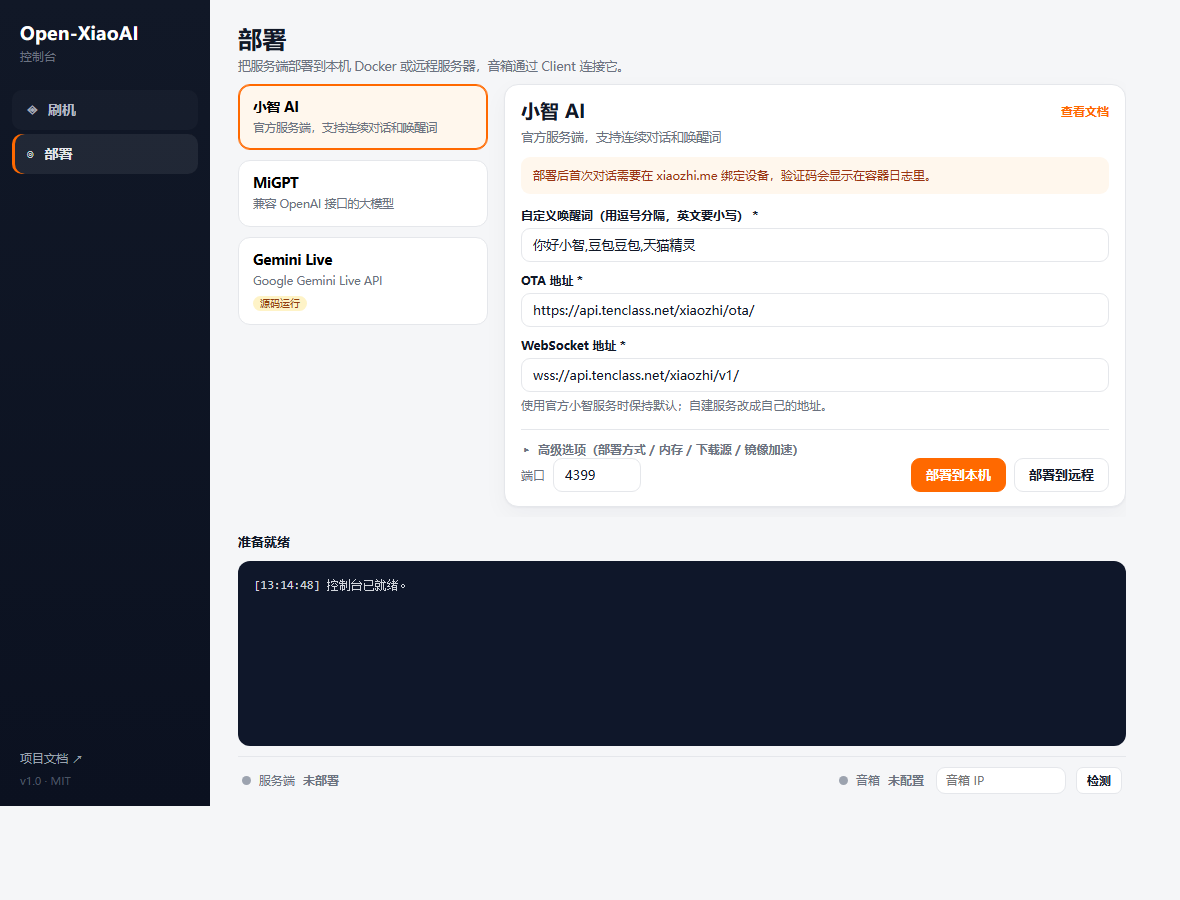
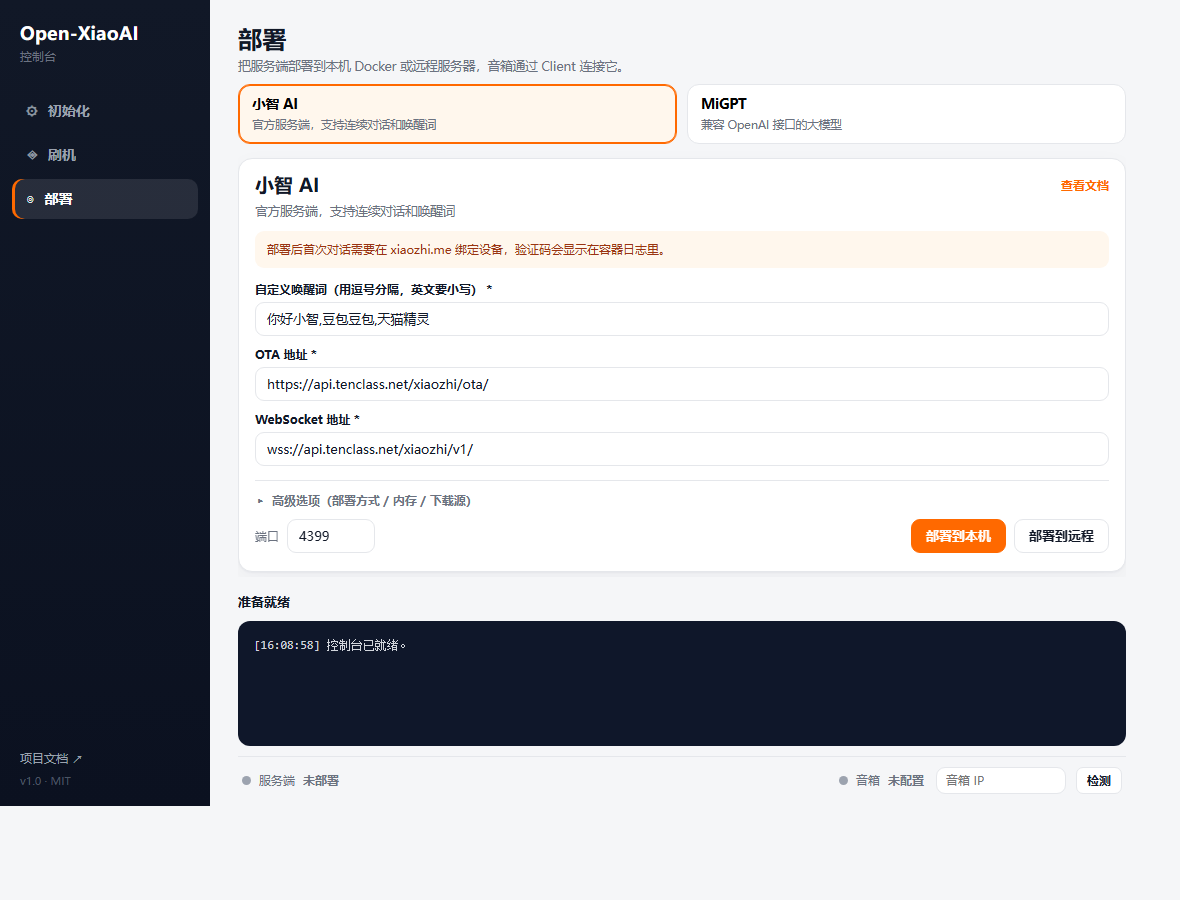
docs: 更新控制台截图并修正固件提示
- 按当前实际界面重新生成刷机页、部署页截图
- 修正固件提示：下载补丁固件或下载官方固件后再制作
- 收紧日志区和部署卡片间距，保证页面内容完整显示

diff --git a/packages/flash-gui-py/web/style.css b/packages/flash-gui-py/web/style.css
@@ -234,7 +234,7 @@ button { font: inherit; }
   border: 1px solid var(--border);
   background: #fff;
   border-radius: 12px;
-  padding: 13px 14px;
+  padding: 10px 13px;
   cursor: pointer;
   transition: border-color .15s ease, background .15s ease, box-shadow .15s ease;
 }
@@ -311,8 +311,8 @@ button { font: inherit; }
 .busy.hidden { display: none; }
 
 .log {
-  flex: 0 0 160px;
-  height: 160px;
+  flex: 0 0 125px;
+  height: 125px;
   margin: 6px 0 0;
   padding: 14px 16px;
   background: var(--log);

diff --git a/packages/flash-gui-py/web/app.js b/packages/flash-gui-py/web/app.js
@@ -183,7 +183,7 @@ function updateImageInfo() {
   const node = $("#image-info");
   if (!path) {
     node.className = "hint";
-    node.textContent = `还没有选择固件。点「下载官方固件」自动下载 ${model.filename}，或手动选择已下载的文件。`;
+    node.textContent = `还没有选择固件。点「下载补丁固件」自动下载 ${model.filename}；或下载官方固件后点「制作补丁固件」。`;
     return;
   }
   const name = path.split(/[\\/]/).pop();
